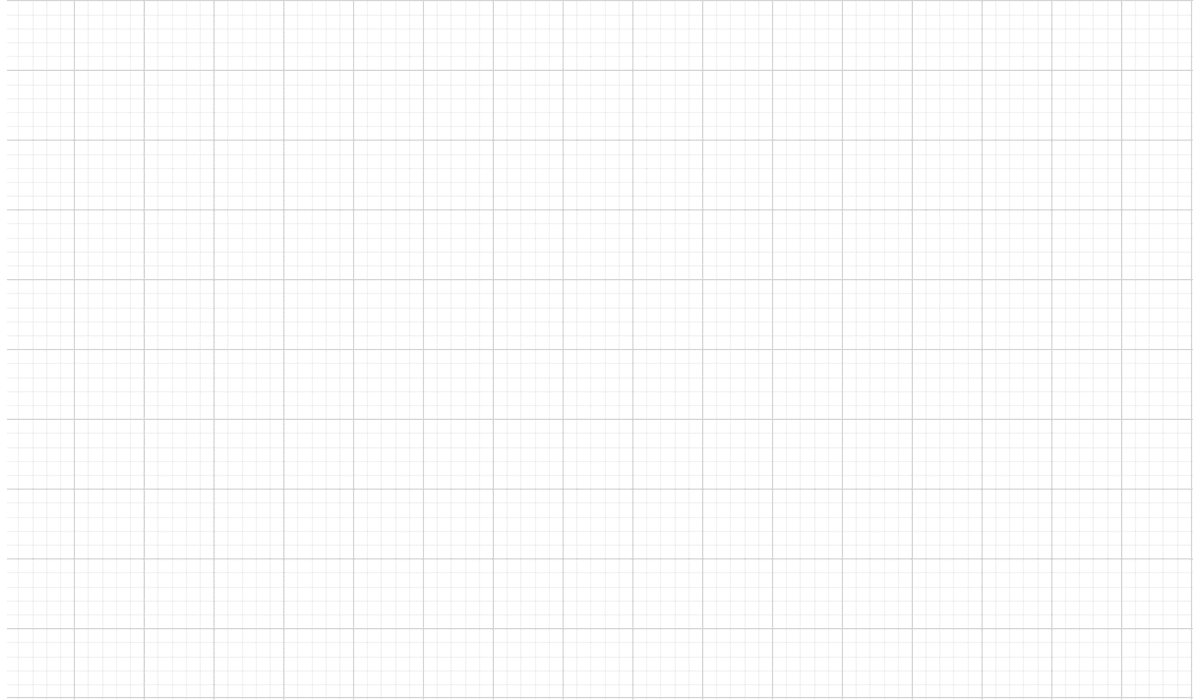
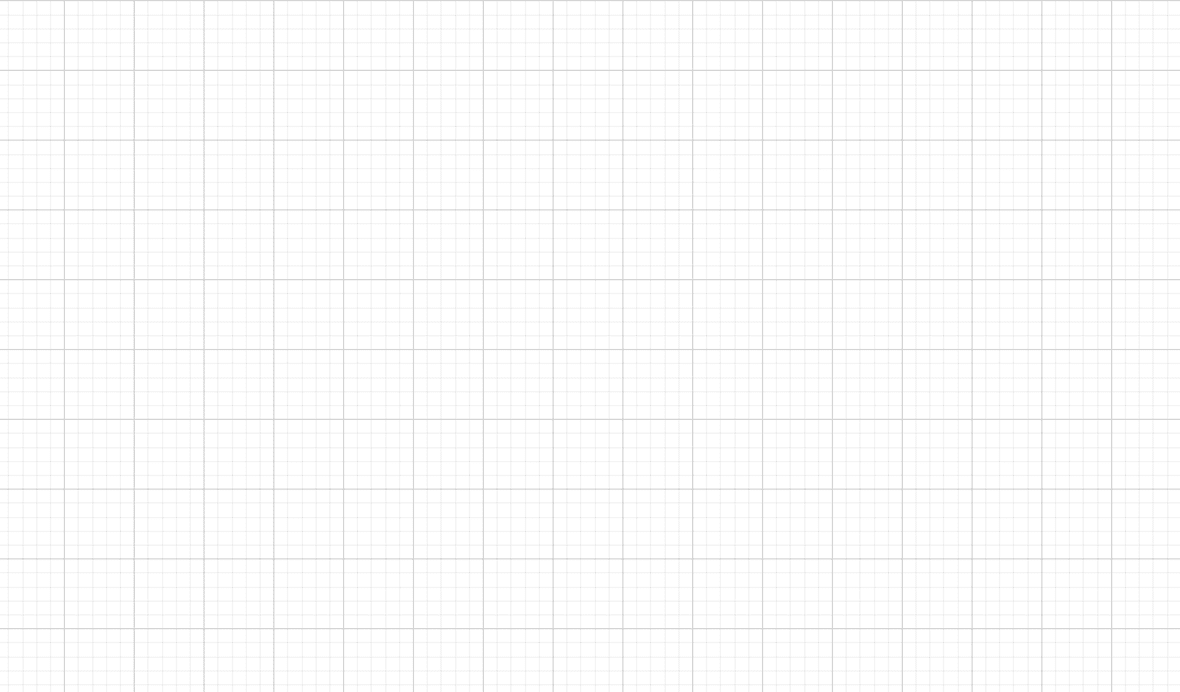
Fixed zooming issues

diff --git a/src/main/java/oogasalad/frontend/nodeEditor/customNodeEditor/Runners/NodeExperiment.java b/src/main/java/oogasalad/frontend/nodeEditor/customNodeEditor/Runners/NodeExperiment.java
@@ -30,14 +30,21 @@ public class NodeExperiment extends Application {
     primaryStage.setHeight(700);
     ImageView imageView = new ImageView(
         new Image(getClass().getResourceAsStream("/frontend/images/GameEditor/grid.png")));
-    DraggableAbstractNode sum = new SumNode(0, 0, 50, 25, "red");
+    imageView.setFitWidth(3 * primaryStage.getWidth());
+    imageView.setFitHeight(3 * primaryStage.getHeight());
+    DraggableAbstractNode sum = new SumNode(0, 0, 75, 25, "red");
+    sum.setBoundingBox(imageView.getBoundsInParent());
     Group group = new Group(imageView, sum);
+    double defaultXScale = 0.5;
+    double defaultYScale = 0.5;
+    group.setScaleX(defaultXScale);
+    group.setScaleY(defaultYScale);
     StackPane content = new StackPane(new Group(group));
     content.setMinSize(Region.USE_PREF_SIZE, Region.USE_PREF_SIZE);
     content.setOnScroll(e -> {
       if (e.isShortcutDown() && e.getDeltaY() != 0) {
         if (e.getDeltaY() < 0) {
-          group.setScaleX(Math.max(group.getScaleX() - 0.1, 0.5));
+          group.setScaleX(Math.max(group.getScaleX() - 0.1, 0.25));
         } else {
           group.setScaleX(Math.min(group.getScaleX() + 0.1, 5.0));
         }
@@ -53,6 +60,6 @@ public class NodeExperiment extends Application {
     scrollPane.setFitToHeight(true);
     primaryStage.setScene(new Scene(scrollPane));
     primaryStage.show();
-    sum.setBoundingBox(imageView.getBoundsInParent());
+
   }
 }
